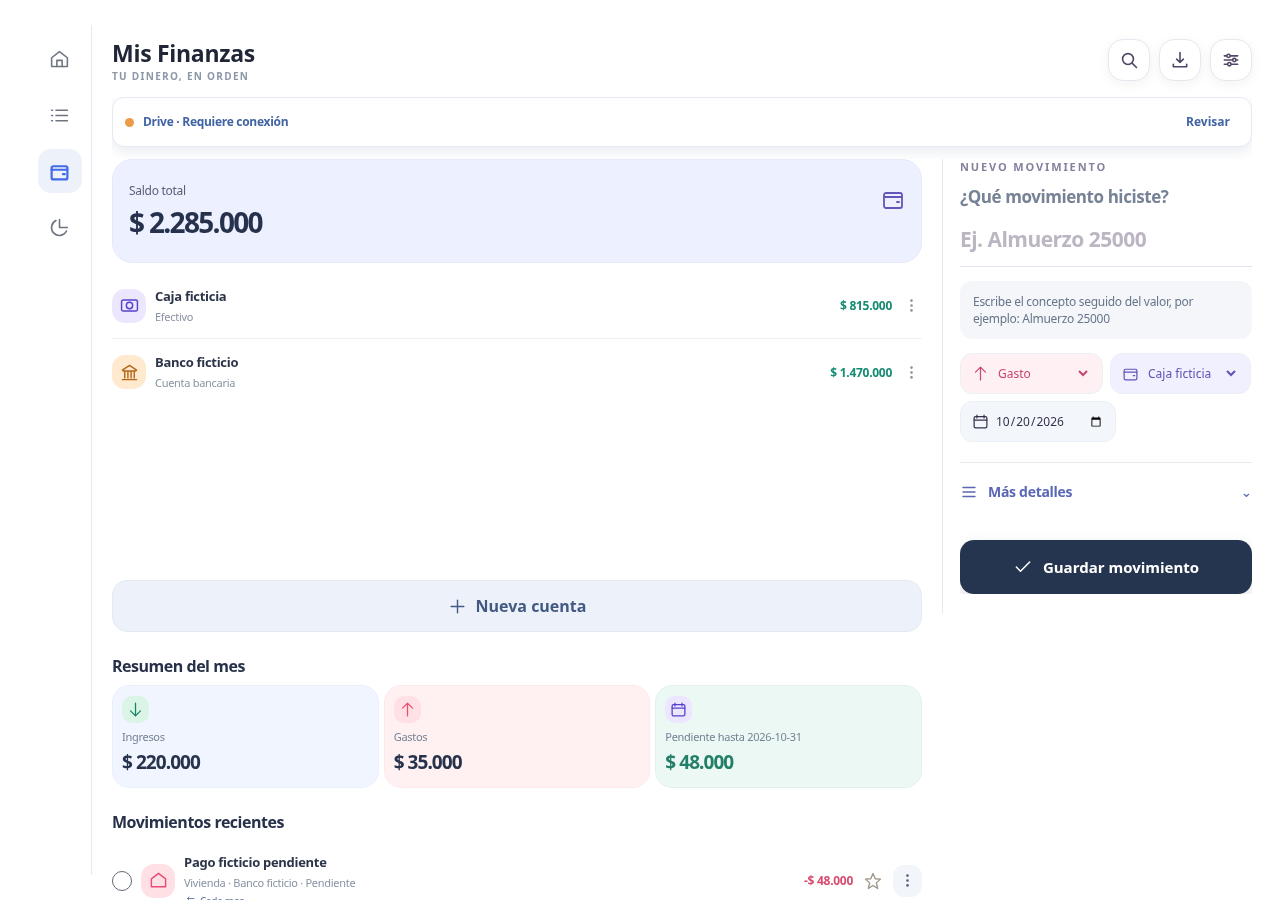
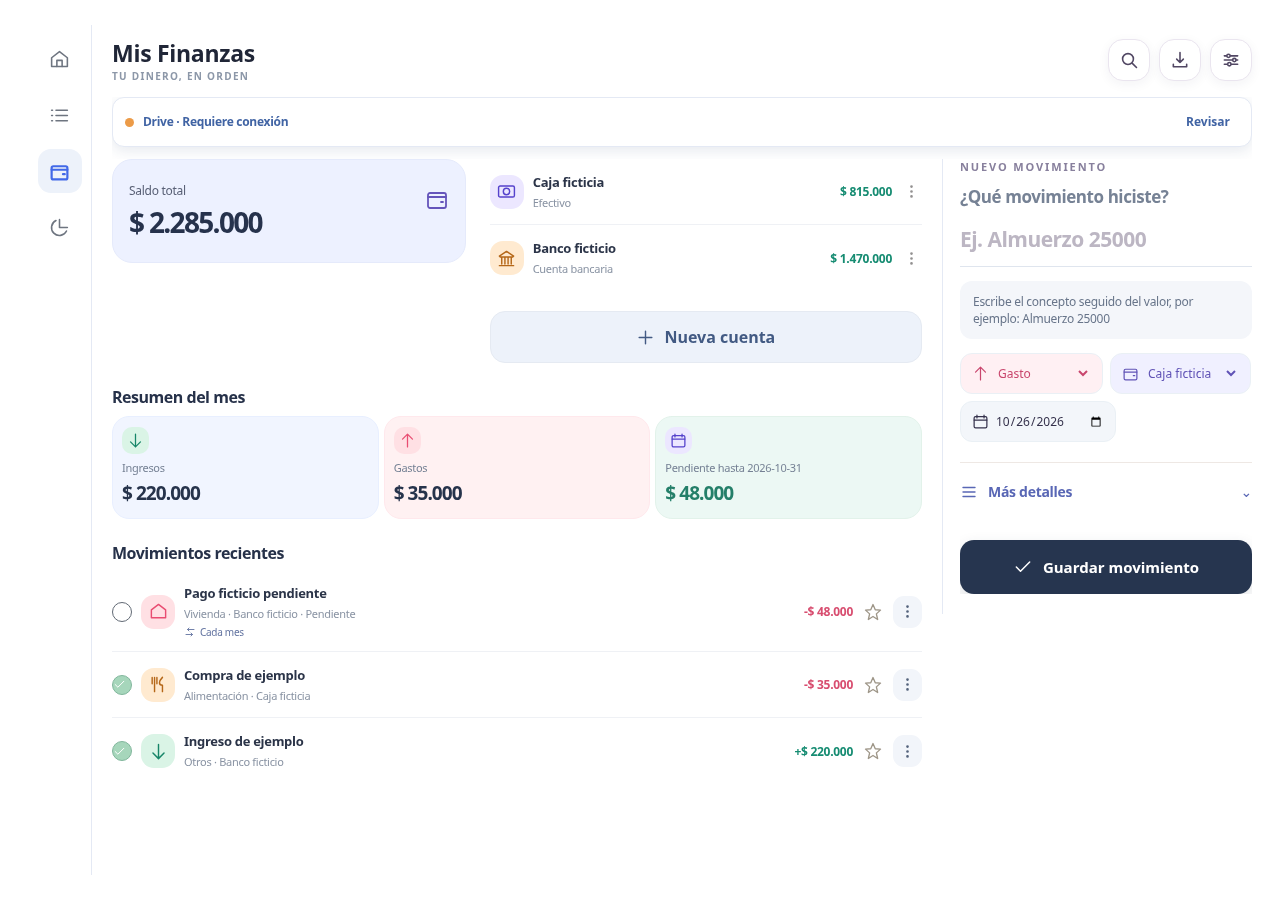
Ajustar Listas y Cuentas al ancho de escritorio

diff --git a/index.html b/index.html
@@ -192,6 +192,19 @@ body{background:#f5f7fb;letter-spacing:-.018em}
  #modal[data-inline-quick=true] .quick-entry{font-size:21px}
  #modal[data-inline-quick=true] .quick-head{margin-bottom:11px}
  #driveToast{left:calc(50% - 165px)}
+ #main:has(> .heading-row) > .flat-list,#main:has(> .total-account) > .flat-list{padding-bottom:0}
+}
+@media(min-width:1280px){
+ #main:has(> .heading-row){display:grid;grid-template-columns:repeat(2,minmax(0,1fr));column-gap:24px;align-content:start}
+ #main:has(> .heading-row) > .heading-row{grid-column:1;grid-row:1}
+ #main:has(> .heading-row) > .heading-row + .flat-list{grid-column:1;grid-row:2;min-width:0}
+ #main:has(> .heading-row) > .section{grid-column:2;grid-row:1;margin:12px 0 8px;align-self:center}
+ #main:has(> .heading-row) > .section + .flat-list{grid-column:2;grid-row:2;min-width:0}
+ #main:has(> .total-account){display:grid;grid-template-columns:minmax(0,.9fr) minmax(0,1.1fr);column-gap:24px;align-content:start}
+ #main:has(> .total-account) > .total-account{grid-column:1;grid-row:1;align-self:start}
+ #main:has(> .total-account) > .total-account + .flat-list{grid-column:2;grid-row:1;min-width:0}
+ #main:has(> .total-account) > .new-account{grid-column:2;grid-row:2}
+ #main:has(> .total-account) > .section,#main:has(> .total-account) > .grid,#main:has(> .total-account) > .flat-list:last-child{grid-column:1/-1}
 }
 </style></head><body><div class="app"><header class="top"><div><div class="muted mini">TU DINERO, EN ORDEN</div><div class="logo">Mis Finanzas</div></div><div class="top-actions"><button class="iconbtn" id="searchToggle" aria-label="Buscar"><svg viewBox="0 0 24 24" width="23" height="23" fill="none" stroke="currentColor" stroke-width="1.9" stroke-linecap="round"><circle cx="10.8" cy="10.8" r="6.5"/><path d="m16 16 5 5"/></svg></button><button class="iconbtn" id="backupNow" aria-label="Guardar copia de seguridad" title="Guardar copia de seguridad"><svg viewBox="0 0 24 24" fill="none" stroke="currentColor" stroke-width="1.9" stroke-linecap="round" stroke-linejoin="round" aria-hidden="true"><path d="M12 3v12m-4-4 4 4 4-4"/><path d="M4 17v3h16v-3"/></svg></button><button class="iconbtn" id="settings" aria-label="Configuración"><svg viewBox="0 0 24 24" width="23" height="23" fill="none" stroke="currentColor" stroke-width="1.9" stroke-linecap="round" stroke-linejoin="round"><path d="M4 7h16M4 12h16M4 17h16"/><circle cx="9" cy="7" r="2" fill="white"/><circle cx="16" cy="12" r="2" fill="white"/><circle cx="10" cy="17" r="2" fill="white"/></svg></button></div></header><main id="main"></main></div><button class="float" id="add" aria-label="Nuevo movimiento">+</button><nav class="bottom" id="nav"></nav><div id="modal"></div><script>
 'use strict';const KEY='mis-finanzas-offline-v1';const uuid=()=>crypto.randomUUID?.()||String(Date.now()+Math.random());const today=()=>new Date().toLocaleDateString('en-CA');const money=n=>new Intl.NumberFormat('es-CO',{style:'currency',currency:'COP',maximumFractionDigits:0}).format(Number(n)||0);const esc=s=>String(s??'').replace(/[&<>"']/g,c=>({'&':'&amp;','<':'&lt;','>':'&gt;','"':'&quot;',"'":'&#39;'}[c]));const initial=()=>({version:1,device:uuid(),revision:0,updatedAt:new Date().toISOString(),accounts:[{id:'cash',name:'Efectivo',type:'cash',opening:0},{id:'bank',name:'Banco',type:'bank',opening:0}],lists:[{id:'home',name:'Hogar'},{id:'personal',name:'Personales'},{id:'work',name:'Trabajo'}],categories:['Alimentación','Transporte','Vivienda','Servicios','Salud','Educación','Ocio','Compras','Suscripciones','Deudas','Otros'],transactions:[],budgets:[],goals:[],debts:[],settings:{cloudUrl:'',cloudKey:'',syncId:'',syncSecret:'',lastSync:''}});let db;try{db=JSON.parse(localStorage.getItem(KEY))||initial()}catch{db=initial()}db={...initial(),...db};if(!Array.isArray(db.categories)||!db.categories.length)db.categories=initial().categories;let page='Inicio',filter='Todos',query='',projection='conservative',until=(()=>{let d=new Date();return new Date(d.getFullYear(),d.getMonth()+1,0).toLocaleDateString('en-CA')})(),listFilter='',accountFilter='';const persist=()=>{db.revision++;db.updatedAt=new Date().toISOString();try{localStorage.setItem(KEY,JSON.stringify(db));window.dispatchEvent(new Event('finanzas-local-save'));return true}catch{alert('No se pudo guardar en este navegador. Exporta una copia de seguridad.');return false}};const completed=t=>t.status==='done',effective=t=>t.status==='done'&&!t.deleted;const linkedAmount=(kind,id)=>db.transactions.filter(t=>!t.deleted&&t.status==='done'&&t.type==='expense'&&t.linkKind===kind&&t.linkId===id).reduce((sum,t)=>sum+Number(t.amount||0),0);const goalSaved=g=>Number(g.saved||0)+linkedAmount('goal',g.id);const debtBalance=d=>Math.max(0,Number(d.balance||0)-linkedAmount('debt',d.id));const accountBalance=id=>{let a=db.accounts.find(a=>a.id===id);if(!a)return 0;return Number(a.opening||0)+db.transactions.filter(t=>effective(t)).reduce((sum,t)=>sum+(t.type==='income'&&t.account===id?+t.amount:0)-(t.type==='expense'&&t.account===id?+t.amount:0)+(t.type==='transfer'&&t.toAccount===id?+t.amount:0)-(t.type==='transfer'&&t.account===id?+t.amount:0),0)};const total=()=>db.accounts.filter(a=>a.type!=='credit').reduce((s,a)=>s+accountBalance(a.id),0);const due=()=>db.transactions.filter(t=>!t.deleted&&t.status==='pending'&&t.type==='expense'&&t.date<=until).reduce((s,t)=>s+Number(t.amount),0);const future=()=>db.transactions.filter(t=>!t.deleted&&t.status==='pending'&&t.type==='income'&&t.date<=until).reduce((s,t)=>s+Number(t.amount),0);const projected=()=>total()-due()+(projection==='expected'?future():0);const icon=t=>({income:'↓',expense:'↑',transfer:'⇄'})[t.type]||'•';const cat=t=>t.category||'Otros';const visible=()=>db.transactions.filter(t=>!t.deleted).filter(t=>filter==='Todos'||filter==='Importantes'&&t.star||filter==='Pendientes'&&t.status==='pending'||filter==='Gastos'&&t.type==='expense'||filter==='Ingresos'&&t.type==='income'||filter==='Transferencias'&&t.type==='transfer').filter(t=>!listFilter||t.list===listFilter).filter(t=>!accountFilter||t.account===accountFilter||t.toAccount===accountFilter).filter(t=>!query||[t.title,t.category,t.notes].join(' ').toLowerCase().includes(query.toLowerCase())).sort((a,b)=>(b.date||'').localeCompare(a.date||'')||b.created.localeCompare(a.created));const movementList=()=>{let arr=visible();return arr.length?arr.map(tRow).join(''):'<div class="empty">No hay movimientos. Pulsa + para empezar.</div>'};const glyphs={home:'<path d="m3 10 9-7 9 7v10H3z"/><path d="M9 20v-7h6v7"/>',list:'<path d="M8 6h13M8 12h13M8 18h13"/><path d="M3 6h1M3 12h1M3 18h1"/>',wallet:'<rect x="3" y="6" width="18" height="15" rx="2"/><path d="M3 10h18M16 15h2"/>',chart:'<path d="M12 3v9h9"/><path d="M20 16a9 9 0 1 1-12-12"/>',search:'<circle cx="11" cy="11" r="7"/><path d="m16 16 5 5"/>',menu:'<path d="M4 6h16M4 12h16M4 18h16"/>',dots:'<circle cx="12" cy="5" r="1"/><circle cx="12" cy="12" r="1"/><circle cx="12" cy="19" r="1"/>',bank:'<path d="m3 9 9-6 9 6M4 10h16M6 10v9m4-9v9m4-9v9m4-9v9M3 21h18"/>',cash:'<rect x="2" y="5" width="20" height="14" rx="2"/><circle cx="12" cy="12" r="4"/>',credit:'<rect x="2" y="5" width="20" height="14" rx="2"/><path d="M2 10h20"/>',cart:'<circle cx="9" cy="20" r="1"/><circle cx="19" cy="20" r="1"/><path d="M2 3h2l3 13h12l3-9H5"/>',food:'<path d="M4 3v8m3-8v8m3-8v8M7 11v10M17 3c-5 5-5 10 0 10v8"/>',car:'<path d="M5 17H3v-6l3-6h12l3 6v6h-2M5 17h14M6 11h12"/><circle cx="7" cy="17" r="2"/><circle cx="17" cy="17" r="2"/>',calendar:'<rect x="3" y="5" width="18" height="16" rx="2"/><path d="M7 3v4M17 3v4M3 10h18"/>',repeat:'<path d="M20 7h-13l3-3M7 7l3 3M4 17h13l-3-3m3 3-3 3"/>',star:'<path d="m12 2 3 7 7 .5-5.5 5 1.7 7.5L12 18l-6.2 4 1.7-7.5L2 9.5 9 9z"/>',target:'<circle cx="12" cy="12" r="9"/><circle cx="12" cy="12" r="5"/><circle cx="12" cy="12" r="1"/>',arrowup:'<path d="M12 21V3m-7 7 7-7 7 7"/>',arrowdown:'<path d="M12 3v18m-7-7 7 7 7-7"/>',transfer:'<path d="M3 7h18l-4-4m4 4-4 4M21 17H3l4-4m-4 4 4 4"/>',clock:'<circle cx="12" cy="12" r="9"/><path d="M12 7v5l4 3"/>',briefcase:'<rect x="3" y="7" width="18" height="14" rx="2"/><path d="M9 7V4h6v3M3 12h18"/>',heart:'<path d="M20 8c0 5-8 11-8 11S4 13 4 8a4 4 0 0 1 8-1 4 4 0 0 1 8 1z"/>',house:'<path d="m3 10 9-7 9 7v10H3z"/>',check:'<path d="m4 12 5 5L20 6"/>',edit:'<path d="M12 20h9"/><path d="M16.5 3.5a2.12 2.12 0 0 1 3 3L9 17l-4 1 1-4Z"/>',trash:'<path d="M3 6h18M8 6V4h8v2M5 6l1 15h12l1-15M10 10v7m4-7v7"/>',edit:'<path d="M12 20h9"/><path d="M16.5 3.5a2.12 2.12 0 0 1 3 3L9 17l-4 1 1-4z"/>',copy:'<rect x="8" y="8" width="12" height="12" rx="2"/><path d="M16 8V5a2 2 0 0 0-2-2H5a2 2 0 0 0-2 2v9a2 2 0 0 0 2 2h3"/>',trash:'<path d="M3 6h18M8 6V4h8v2M6 6l1 15h10l1-15M10 10v7M14 10v7"/>' ,plus:'<path d="M12 4v16M4 12h16"/>',pet:'<path d="M12 20c-3 0-7-2-7-5 0-2 2-3 4-3l3-2 3 2c2 0 4 1 4 3 0 3-4 5-7 5Z"/><ellipse cx="5" cy="8" rx="2" ry="3"/><ellipse cx="10" cy="5" rx="2" ry="3"/><ellipse cx="16" cy="5" rx="2" ry="3"/><ellipse cx="21" cy="8" rx="2" ry="3"/>',gift:'<rect x="3" y="9" width="18" height="12" rx="2"/><path d="M12 9v12M2 9h20M12 9C3 9 5 2 9 4c2 1 3 5 3 5Zm0 0c9 0 7-7 3-5-2 1-3 5-3 5Z"/>',coffee:'<path d="M4 8h14v7a6 6 0 0 1-12 0V8m12 1h2a3 3 0 0 1 0 6h-2M3 22h17M8 2v3m5-3v3"/>',book:'<path d="M12 6c-3-2-6-2-10-1v15c4-1 7-1 10 1 3-2 6-2 10-1V5c-4-1-7-1-10 1Zm0 0v15"/>',plane:'<path d="m21 3-8 18-3-8-8-3 19-7ZM10 13l5-5"/>',phone:'<rect x="7" y="2" width="10" height="20" rx="2"/><path d="M11 18h2"/>',lightning:'<path d="m13 2-9 12h7l-1 8 10-13h-7V2Z"/>',droplet:'<path d="M12 2S5 11 5 15a7 7 0 0 0 14 0c0-4-7-13-7-13Z"/>',wifi:'<path d="M2 9a16 16 0 0 1 20 0M5 13a11 11 0 0 1 14 0M9 17a5 5 0 0 1 6 0"/><circle cx="12" cy="21" r="1"/>',shirt:'<path d="m8 3 4 2 4-2 5 4-3 5-2-1v10H8V11l-2 1-3-5 5-4Z"/>',music:'<path d="M9 18V5l12-2v13M9 8l12-2"/><circle cx="6" cy="18" r="3"/><circle cx="18" cy="16" r="3"/>',game:'<path d="M7 8h10c3 0 4 3 5 8s-3 5-6 2l-2-2h-4l-2 2c-3 3-7 2-6-2S4 8 7 8Z"/><path d="M7 11v5m-2-2h5m6-1h.01M19 15h.01"/>',camera:'<rect x="2" y="6" width="20" height="15" rx="2"/><path d="M8 6l2-3h4l2 3"/><circle cx="12" cy="13" r="4"/>',flower:'<circle cx="12" cy="12" r="2"/><path d="M12 10C5 4 11 0 14 4c1 2 0 4-2 6Zm2 2c6-7 10-1 6 2-2 1-4 0-6-2Zm-2 2c7 6 1 10-2 6-1-2 0-4 2-6Zm-2-2c-6 7-10 1-6-2 2-1 4 0 6 2Z"/>',sun:'<circle cx="12" cy="12" r="4"/><path d="M12 2v2m0 16v2M2 12h2m16 0h2M5 5l2 2m10 10 2 2M19 5l-2 2M7 17l-2 2"/>',pill:'<path d="M8 3a6 6 0 0 1 8 0l5 5a6 6 0 0 1 0 8l-5 5a6 6 0 0 1-8 0l-5-5a6 6 0 0 1 0-8l5-5ZM6 6l12 12"/>',building:'<rect x="4" y="2" width="16" height="20" rx="2"/><path d="M8 6h2m4 0h2M8 10h2m4 0h2M8 14h2m4 0h2M10 22v-4h4v4"/>',bus:'<rect x="4" y="3" width="16" height="16" rx="3"/><path d="M4 12h16M8 19v3m8-3v3M8 8h3m2 0h3"/><circle cx="8" cy="16" r="1"/><circle cx="16" cy="16" r="1"/>',piggy:'<path d="M6 10C3 9 2 10 2 12s2 3 4 3c1 3 4 5 8 5h4l2 2v-5c2-2 3-5 1-8l-3 1c-2-3-7-4-11-2L5 5v5Z"/><circle cx="17" cy="12" r="1"/><path d="M10 9h4"/>',percent:'<circle cx="7" cy="7" r="3"/><circle cx="17" cy="17" r="3"/><path d="M4 20 20 4"/>',coins:'<ellipse cx="9" cy="6" rx="6" ry="3"/><path d="M3 6v5c0 2 3 3 6 3s6-1 6-3V6M3 11v5c0 2 3 3 6 3h2M16 13c3 0 6 1 6 3s-3 3-6 3-6-1-6-3 3-3 6-3Zm-6 3v4c0 2 3 3 6 3s6-1 6-3v-4"/>',key:'<circle cx="8" cy="8" r="5"/><path d="m12 12 9 9m-4-4 3-3m-5 1 3-3"/>',paint:'<path d="M12 2a10 10 0 0 0 0 20h2c3 0 4-4 1-5-2-1-1-4 2-4h3c4-6-2-11-8-11Z"/><circle cx="7" cy="10" r="1"/><circle cx="10" cy="6" r="1"/><circle cx="16" cy="7" r="1"/>',dumbbell:'<path d="M3 9v6m3-9v12m3-8 6 4m0-4-6 4m9-8v12m3-9v6"/>',leaf:'<path d="M21 3C8 3 3 9 3 15a6 6 0 0 0 6 6c6 0 12-5 12-18ZM3 21c4-7 8-10 14-13"/>',graduation:'<path d="m2 9 10-5 10 5-10 5L2 9Zm4 3v5c4 4 8 4 12 0v-5M22 9v8"/>',umbrella:'<path d="M2 12a10 10 0 0 1 20 0H2Zm10 0v7a3 3 0 0 0 6 0"/>',cake:'<path d="M4 12h16v10H4V12Zm-2 0h20M8 12V7m4 5V7m4 5V7M8 4v1m4-1v1m4-1v1"/>',scissors:'<circle cx="6" cy="18" r="3"/><circle cx="6" cy="6" r="3"/><path d="m8 8 13 13M8 16 21 3"/>',computer:'<rect x="3" y="3" width="18" height="14" rx="2"/><path d="M8 21h8m-4-4v4"/>',clipboard:'<rect x="5" y="4" width="14" height="18" rx="2"/><path d="M9 4V2h6v2M9 10h6m-6 4h6m-6 4h4"/>'};glyphs.chevronDown='<path d="m6 9 6 6 6-6"/>';const ico=(k,size=20)=>`<svg class="ui-icon" width="${size}" height="${size}" viewBox="0 0 24 24" fill="none" stroke="currentColor" stroke-width="1.8" stroke-linecap="round" stroke-linejoin="round" aria-hidden="true">${glyphs[k]||glyphs.wallet}</svg>`;const catIcon=c=>(db.categoryIcons&&db.categoryIcons[c]&&glyphs[db.categoryIcons[c]]?db.categoryIcons[c]:/Aliment|Comida|Restaurante/i.test(c)?'food':/Transporte|Gasolina/i.test(c)?'car':/Vivienda|Hogar/i.test(c)?'house':/Servicio|Internet/i.test(c)?'wallet':/Salud/i.test(c)?'heart':/Trabajo/i.test(c)?'briefcase':/Compra/i.test(c)?'cart':'wallet');const badge=(k,tone='peach')=>`<span class="icon-badge ${tone}">${ico(k,19)}</span>`;const toneFor=(i)=>['lavender','peach','mint','rose','blue','gold'][i%6];const amountFor=(arr)=>arr.reduce((s,t)=>s+(t.type==='income'?1:t.type==='expense'?-1:0)*Number(t.amount||0),0);const repeatCaption=r=>{if(!r)return "";const m=/^(days|weeks|months|years):(\d+)$/.exec(r);if(m){const n=Number(m[2]);const singular={days:"día",weeks:"semana",months:"mes",years:"año"},plural={days:"días",weeks:"semanas",months:"meses",years:"años"};return `Cada ${n} ${n===1?singular[m[1]]:plural[m[1]]}`}return ({daily:"Cada día",weekly:"Cada semana",monthly:"Cada mes",yearly:"Cada año"})[r]||"Recurrente"};const tRow=t=>{let a=db.accounts.find(a=>a.id===t.account),ci=catIcon(t.category);return `<div class="item transaction" data-swipe-right="✓ Realizado" data-swipe-left="Editar" data-id="${esc(t.id)}"><button class="circle ${completed(t)?'done':''}" data-action="toggle" data-id="${esc(t.id)}" aria-label="${completed(t)?'Marcar pendiente':'Marcar realizado'}">${completed(t)?ico('check',13):''}</button>${badge(t.type==='transfer'?'transfer':t.type==='income'?'arrowdown':ci,t.type==='income'?'mint':t.type==='transfer'?'lavender':t.status==='pending'?'rose':'peach')}<div class="detail"><strong>${esc(t.title)}</strong><small>${esc(cat(t))} · ${esc(a?.name||'Sin cuenta')}${t.status==='pending'?' · Pendiente':''}</small>${t.repeat?`<small class="repeat-tag">${ico('repeat',12)} ${esc(repeatCaption(t.repeat))}</small>`:''}${t.linkKind&&t.linkId?`<small class="repeat-tag">${ico('target',12)} ${esc((t.linkKind==='debt'?db.debts:db.goals).find(x=>x.id===t.linkId)?.name||'Vínculo anterior')}</small>`:''}</div><div class="amount ${t.type}">${t.type==='income'?'+':t.type==='expense'?'-':''}${money(t.amount)}</div><button class="iconbtn star ${t.star?'on':''}" data-action="star" data-id="${esc(t.id)}" aria-label="Destacar">${ico('star',18)}</button><button class="iconbtn rowmore" data-action="actions" data-id="${esc(t.id)}" aria-label="Más acciones">${ico('dots',17)}</button></div>`};const filters=()=>`<div class="tabs">${['Todos','Gastos','Ingresos','Pendientes','Transferencias','Importantes'].map(x=>`<button class="chip ${filter===x?'active':''}" data-filter="${x}">${x}</button>`).join('')}</div>`;const summary=()=>`<div class="grid summary-grid"><div class="metric">${badge('wallet','blue')}<small>Saldo real</small><b>${money(total())}</b></div><div class="metric">${badge('clock','rose')}<small>Pendiente hasta ${esc(until)}</small><b>${money(due())}</b></div><div class="metric">${badge('wallet','mint')}<small>Saldo proyectado</small><b>${money(projected())}</b></div></div><details class="projection-details"><summary>Configurar proyección ${ico('calendar',15)}</summary><div class="row"><label class="field">Tipo<select id="proj"><option value="conservative" ${projection==='conservative'?'selected':''}>Conservadora</option><option value="expected" ${projection==='expected'?'selected':''}>Con ingresos esperados</option></select></label><label class="field">Hasta<input id="until" type="date" value="${esc(until)}"></label></div></details>`;const collapsedDates=new Set();const groupTransactions=()=>{let arr=visible();if(!arr.length)return '<div class="empty">Aún no hay movimientos.<br>Pulsa + para registrar el primero.</div>';let groups={};arr.forEach(t=>{let k=t.date===today()?'Hoy':t.date===new Date(Date.now()-86400000).toLocaleDateString('en-CA')?'Ayer':t.date; (groups[k]??=[]).push(t)});return Object.entries(groups).map(([k,ts])=>`<section class="date-group"><button type="button" class="day-title date-toggle" data-action="toggleDate" data-date="${esc(k)}" aria-expanded="${!collapsedDates.has(k)}">${esc(k)} <span>· ${ts.length} movimientos</span><span class="date-chevron">${ico("chevronDown",19)}</span></button><div class="date-group-body" ${collapsedDates.has(k)?"hidden":""}>${ts.map(tRow).join('')}</div></section>`).join('')};const render=()=>{document.getElementById('nav').innerHTML=['Inicio','Listas','Cuentas','Análisis'].map((p,i)=>`<button class="nav ${p===page?'active':''}" data-page="${p}">${ico(['home','list','wallet','chart'][i],21)}<span>${p}</span></button>`).join('');document.querySelector('.logo').textContent=page==='Inicio'?'Mis finanzas':page;document.getElementById('add').innerHTML=ico('plus',31);document.getElementById('add').setAttribute('data-page-tone',page);let html='';if(page==='Inicio'){html=`${filters()}${summary()}<details class="filters-panel"><summary>${ico('search',16)} Buscar y filtrar movimientos</summary><input class="search" id="search" placeholder="Buscar movimientos..." value="${esc(query)}"><div class="row"><label class="field">Lista<select id="listFilter"><option value="">Todas</option>${db.lists.map(x=>`<option value="${esc(x.id)}" ${listFilter===x.id?'selected':''}>${esc(x.name)}</option>`).join('')}</select></label><label class="field">Cuenta<select id="accountFilter"><option value="">Todas</option>${db.accounts.map(x=>`<option value="${esc(x.id)}" ${accountFilter===x.id?'selected':''}>${esc(x.name)}</option>`).join('')}</select></label></div></details><div class="movements">${groupTransactions()}</div>`}else if(page==='Listas'){html=`<div class="between heading-row"><h2>Mis listas</h2><button class="round-add" data-action="newList" aria-label="Nueva lista">${ico('plus')}</button></div><div class="flat-list"><div class="item">${badge('list','lavender')}<div class="detail"><strong>Todas</strong><small>${db.transactions.filter(t=>!t.deleted).length} movimientos</small></div><b class="income">${money(total())}</b></div>${db.lists.map((l,i)=>{let tx=db.transactions.filter(t=>!t.deleted&&t.list===l.id);let n=amountFor(tx);return `<div class="item">${badge(['house','briefcase','cart','target','heart'][i%5],toneFor(i+1))}<div class="detail"><strong>${esc(l.name)}</strong><small>${tx.length} movimientos</small></div><b class="amount ${n>=0?'income':'expense'}">${n<0?'-':''}${money(Math.abs(n))}</b><button class="iconbtn" data-action="openList" data-id="${l.id}" aria-label="Abrir lista">${ico('search',16)}</button><button class="iconbtn" data-action="deleteList" data-id="${l.id}">${ico('dots',16)}</button></div>`}).join('')}<div class="item">${badge('calendar','rose')}<div class="detail"><strong>Pendientes</strong><small>${db.transactions.filter(t=>!t.deleted&&t.status==='pending').length} pagos</small></div><b class="expense">${money(due())}</b><button class="iconbtn" data-action="smart" data-id="pending">${ico('dots',16)}</button></div></div><h3 class="section">Listas inteligentes</h3><div class="flat-list">${[['Gastos fijos','repeat','repeat'],['Recurrentes','repeat','repeat'],['Metas de ahorro','target','goals'],['Deudas','credit','debts'],['Destacados','star','star']].map(([name,ic,k],i)=>`<div class="item">${badge(ic,toneFor(i+3))}<div class="detail"><strong>${name}</strong><small>${k==='goals'?db.goals.length+' metas':k==='debts'?db.debts.length+' deudas':db.transactions.filter(t=>!t.deleted&&(k==='repeat'?t.repeat:t.star)).length+' movimientos'}</small></div><button class="iconbtn" data-action="smart" data-id="${k==='goals'||k==='debts'?'pending':k}">${ico('dots',17)}</button></div>`).join('')}</div>`}else if(page==='Cuentas'){html=`<div class="total-account"><small>Saldo total</small><h1>${money(total())}</h1>${ico('wallet',24)}</div><div class="flat-list">${db.accounts.map((a,i)=>`<div class="item account">${badge(a.type==='credit'?'credit':a.type==='cash'?'cash':'bank',toneFor(i))}<div class="detail"><strong>${esc(a.name)}</strong><small>${a.type==='credit'?'Tarjeta de crédito':a.type==='cash'?'Efectivo':'Cuenta bancaria'}</small></div><b class="amount ${accountBalance(a.id)<0?'expense':'income'}">${money(accountBalance(a.id))}</b><button class="iconbtn" data-action="editAccount" data-id="${a.id}">${ico('dots',17)}</button></div>`).join('')}</div><button class="new-account" data-action="newAccount">${ico('plus',19)} Nueva cuenta</button><h3 class="section">Resumen del mes</h3><div class="grid">${(()=>{let tx=db.transactions.filter(t=>effective(t)&&t.date.slice(0,7)===today().slice(0,7));return `<div class="metric">${badge('arrowdown','mint')}<small>Ingresos</small><b>${money(tx.filter(t=>t.type==='income').reduce((s,t)=>s+ +t.amount,0))}</b></div><div class="metric">${badge('arrowup','rose')}<small>Gastos</small><b>${money(tx.filter(t=>t.type==='expense').reduce((s,t)=>s+ +t.amount,0))}</b></div><div class="metric">${badge('calendar','lavender')}<small>Pendiente hasta ${esc(until)}</small><b>${money(due())}</b></div>`})()}</div><h3 class="section">Movimientos recientes</h3><div class="flat-list">${db.transactions.filter(t=>!t.deleted).slice(-5).reverse().map(tRow).join('')||'<div class="empty">Sin movimientos</div>'}</div>`}else{let expenses=db.transactions.filter(t=>effective(t)&&t.type==='expense'&&t.date.slice(0,7)===today().slice(0,7)),incomes=db.transactions.filter(t=>effective(t)&&t.type==='income'&&t.date.slice(0,7)===today().slice(0,7));let cats={};expenses.forEach(t=>cats[cat(t)]=(cats[cat(t)]||0)+Number(t.amount));let catArr=Object.entries(cats).sort((a,b)=>b[1]-a[1]);let sum=expenses.reduce((s,t)=>s+Number(t.amount),0);let palette=['#f27f9a','#81c7a5','#83b9fa','#a98aed','#ffc46c','#c7a9ef'];let pos=0;let stops=catArr.map(([k,v],i)=>{let start=pos;pos+=v/Math.max(sum,1)*100;return `${palette[i%palette.length]} ${start}% ${pos}%`}).join(',');html=`<div class="analysis-actions"><button class="chip active">Resumen</button><button class="chip" data-filter="Gastos" data-page="Inicio">Ver gastos</button><button class="chip" data-filter="Ingresos" data-page="Inicio">Ver ingresos</button><button class="chip" data-action="newBudget">Presupuestos</button></div><div class="grid"><div class="metric">${badge('arrowdown','mint')}<small>Ingresos</small><b>${money(incomes.reduce((s,t)=>s+Number(t.amount),0))}</b></div><div class="metric">${badge('arrowup','rose')}<small>Gastos</small><b>${money(sum)}</b></div><div class="metric">${badge('calendar','blue')}<small>Saldo real</small><b>${money(total())}</b></div></div><div class="forecast-strip"><div><small>Gastos realizados del mes</small><strong>${money(sum)}</strong></div><div><small>Gastos pendientes del mes</small><strong>${money(db.transactions.filter(t=>!t.deleted&&t.type==='expense'&&t.status==='pending'&&t.date.slice(0,7)===today().slice(0,7)).reduce((s,t)=>s+Number(t.amount||0),0))}</strong></div><div><small>Total previsto del mes</small><strong>${money(sum+db.transactions.filter(t=>!t.deleted&&t.type==='expense'&&t.status==='pending'&&t.date.slice(0,7)===today().slice(0,7)).reduce((s,t)=>s+Number(t.amount||0),0))}</strong></div></div><h3 class="section">Gastos por categoría</h3><div class="chart-section"><div class="donut" style="background:conic-gradient(${stops||'#eee9e3 0% 100%'})"><div class="donut-hole">${money(sum)}</div></div><div class="legend">${catArr.map(([c,v],i)=>`<div><i style="background:${palette[i%palette.length]}"></i><span>${esc(c)}</span><b>${Math.round(v/Math.max(sum,1)*100)}%</b></div>`).join('')||'<small>Sin gastos este mes</small>'}</div></div><div class="between section-heading"><h3 class="section">Presupuesto mensual</h3><button class="text-action" data-action="newBudget">+ Añadir</button></div>${db.budgets.map((b,i)=>{let spent=expenses.filter(t=>cat(t)===b.category).reduce((s,t)=>s+Number(t.amount),0);return `<div class="budget-row">${badge(catIcon(b.category),toneFor(i))}<div class="budget-body"><div class="between"><strong>${esc(b.category)}</strong><small>${money(spent)} / ${money(b.amount)}</small></div><div class="progress"><i style="width:${Math.min(100,spent/b.amount*100)}%;background:${spent>b.amount?'#e86c84':palette[i%palette.length]}"></i></div></div><button class="iconbtn" data-action="editBudget" data-id="${b.id}" aria-label="Editar presupuesto">${ico('edit',17)}</button><button class="iconbtn" data-action="deleteBudget" data-id="${b.id}" aria-label="Eliminar presupuesto">${ico('trash',16)}</button></div>`}).join('')||'<div class="empty">Crea tu primer presupuesto</div>'}<div class="between section-heading"><h3 class="section">Metas de ahorro</h3><button class="text-action" data-action="newGoal">+ Añadir</button></div>${db.goals.map((g,i)=>`<div class="budget-row">${badge('target',toneFor(i))}<div class="budget-body"><div class="between"><strong>${esc(g.name)}</strong><small>${money(goalSaved(g))} / ${money(g.target)}</small></div><div class="progress"><i style="width:${Math.min(100,goalSaved(g)/g.target*100)}%"></i></div></div><button class="iconbtn" data-action="addGoal" data-id="${g.id}" aria-label="Abonar a meta">${ico('plus',17)}</button><button class="iconbtn" data-action="deleteGoal" data-id="${g.id}">×</button></div>`).join('')||'<div class="empty">Todavía no tienes metas</div>'}<div class="between section-heading"><h3 class="section">Deudas</h3><button class="text-action" data-action="newDebt">+ Añadir</button></div>${db.debts.map(d=>`<div class="item">${badge('credit','rose')}<div class="detail"><strong>${esc(d.name)}</strong><small>Saldo ${money(debtBalance(d))}</small></div><button class="secondary" data-action="payDebt" data-id="${d.id}">Abonar</button><button class="iconbtn" data-action="editDebt" data-id="${d.id}" aria-label="Editar deuda">${ico('edit',18)}</button><button class="iconbtn" data-action="deleteDebt" data-id="${d.id}">×</button></div>`).join('')||'<div class="empty">Sin deudas registradas</div>'}`};document.getElementById('main').innerHTML=html};const open=html=>{const modal=document.getElementById('modal');if(!desktopQuickOpening&&modal.dataset.inlineQuick==='true'){parkedQuick=modal.firstElementChild;parkedQuick.remove()}modal.dataset.inlineQuick=desktopQuickOpening?'true':'false';modal.innerHTML=`<div class="overlay" id="overlay"><div class="sheet">${html}</div></div>`};const close=()=>{const modal=document.getElementById('modal');modal.innerHTML='';if(desktopLayout.matches&&parkedQuick){modal.dataset.inlineQuick='true';refreshParkedQuick();modal.append(parkedQuick);parkedQuick=null}else{parkedQuick=null;modal.dataset.inlineQuick='false';mountDesktopQuick()}};const field=(label,name,value='',type='text')=>`<label class="field">${label}<input name="${name}" type="${type}" value="${esc(value)}" ${type==='number'?'min="0" step="any"':''}></label>`;const select=(label,name,items,val='')=>`<label class="field">${label}<select name="${name}">${items.map(([id,name])=>`<option value="${esc(id)}" ${val===id?'selected':''}>${esc(name)}</option>`).join('')}</select></label>`;const form=(title,content,action='save')=>open(`<div class="between"><h2>${title}</h2><button class="iconbtn" data-action="close">✕</button></div><form id="form" data-form="${action}">${content}<div class="row" style="margin-top:22px"><button class="secondary" type="button" data-action="close">Cancelar</button><button class="primary" type="submit">Guardar</button></div></form>`);const accountOptions=()=>db.accounts.map(a=>[a.id,a.name]);const transactionForm=(id)=>{let t=db.transactions.find(x=>x.id===id)||{type:'expense',title:'',amount:'',category:'Alimentación',date:today(),account:db.accounts[0]?.id,toAccount:db.accounts[1]?.id,list:'',status:'done',repeat:'',notes:'',star:false};let quick=t.title+(t.amount?' '+t.amount:'');if(!id&&t.date>today())t.status='pending';open(`<div class="quick-head"><span class="quick-kicker">${id?'EDITAR':'NUEVO'} MOVIMIENTO</span><button class="quick-close" data-action="close" aria-label="Cerrar">×</button></div><form id="form" data-form="transaction"><input type="hidden" name="id" value="${esc(id||'')}"><input type="hidden" name="title" value="${esc(t.title)}"><input type="hidden" name="amount" value="${esc(t.amount)}"><label class="quick-prompt" for="quickEntry">¿Qué movimiento hiciste?</label><input id="quickEntry" class="quick-entry" type="text" inputmode="text" autocomplete="off" placeholder="Ej. Almuerzo 25000" value="${esc(quick)}" required><div class="quick-detected" id="quickDetected">Escribe un concepto y un valor</div><div class="quick-chips"><label class="quick-chip expense-chip" id="movementTypeChip">${ico('arrowup',17)}<select name="type" aria-label="Tipo de movimiento">${[['expense','Gasto'],['income','Ingreso'],['transfer','Transferencia']].map(([v,l])=>`<option value="${v}" ${t.type===v?'selected':''}>${l}</option>`).join('')}</select></label><label class="quick-chip account-chip">${ico('wallet',17)}<select name="account" aria-label="Cuenta">${accountOptions().map(([v,l])=>`<option value="${esc(v)}" ${t.account===v?'selected':''}>${esc(l)}</option>`).join('')}</select></label><label class="quick-chip date-chip">${ico('calendar',17)}<input name="date" type="date" value="${esc(t.date)}" aria-label="Fecha"></label></div><details class="quick-details"><summary>${ico('menu',18)} Más detalles <span>⌄</span></summary><div class="quick-details-body"><div class="quick-line category-quick-row"><span>Categoría</span><div class="category-quick-controls">${select('','category',db.categories.map(x=>[x,x]),t.category)}<button type="button" class="category-icon-btn" data-action="catQuickAdd" title="Nueva categoría" aria-label="Agregar categoría">${ico('plus',19)}</button><button type="button" class="category-icon-btn" data-action="catQuickEdit" title="Renombrar categoría" aria-label="Editar categoría">${ico('edit',18)}</button></div></div><label class="quick-line">Estado ${select('','status',[['done','Realizado'],['pending','Pendiente']],t.status)}</label><div class="destination-field quick-line">Cuenta destino ${select('','toAccount',[['','Ninguna'],...accountOptions()],t.toAccount)}</div><label class="quick-line">Repetir ${select('','repeat',[['','No repetir'],['daily','Diario'],['weekly','Semanal'],['monthly','Mensual'],['yearly','Anual'],['custom','Personalizar…']],t.repeat&&(/^(days|weeks|months|years):\d+$/.test(t.repeat)||t.repeat.startsWith('months:'))?'custom':t.repeat)}</label><div class="custom-repeat-row" style="${/^(days|weeks|months|years):\d+$/.test(t.repeat)?'':'display:none'}"><span>Repetir cada</span><div class="repeat-controls"><input name="repeatEvery" type="number" min="1" max="365" value="${esc((t.repeat||'').split(':')[1]||'2')}" aria-label="Intervalo de repetición"><select name="repeatUnit" aria-label="Unidad de repetición">${[['days','días'],['weeks','semanas'],['months','meses'],['years','años']].map(([u,label])=>`<option value="${u}" ${((t.repeat||'').split(':')[0]||'months')===u?'selected':''}>${label}</option>`).join('')}</select></div></div><div class="quick-line" id="movementLinkRow"><span>Relacionar con</span><label class="field"> <select name="linkTarget" aria-label="Deuda o meta de ahorro"><option value="">Sin relación</option>${db.debts.map(d=>`<option value="debt:${esc(d.id)}" ${t.linkKind==='debt'&&t.linkId===d.id?'selected':''}>Deuda · ${esc(d.name)}</option>`).join('')}${db.goals.map(g=>`<option value="goal:${esc(g.id)}" ${t.linkKind==='goal'&&t.linkId===g.id?'selected':''}>Meta · ${esc(g.name)}</option>`).join('')}</select></label></div><label class="quick-line">Lista ${select('','list',[['','Sin lista'],...db.lists.map(l=>[l.id,l.name])],t.list)}</label><label class="quick-line">Notas <textarea name="notes" rows="2" placeholder="Añadir nota…">${esc(t.notes)}</textarea></label><label class="quick-line">Comprobante <input type="file" name="attachment" accept="image/*"></label></div></details><button class="quick-save" type="button">${ico('check',20)} Guardar movimiento</button></form>`);let q=document.getElementById('quickEntry');const parse=()=>{let raw=q.value.trim(),m=raw.match(/^(.*?)\s+\$?([0-9][0-9.,]*)\s*$/),title=m?m[1].trim():raw,amount=m?Number(m[2].replace(/[.,]/g,'')):0;document.querySelector('#form [name=title]').value=title;document.querySelector('#form [name=amount]').value=amount||'';document.getElementById('quickDetected').textContent=amount>0?'Detectado: '+(document.querySelector('#form [name=type]').selectedOptions[0]?.textContent||'Gasto')+' · '+money(amount)+' · '+document.querySelector('#form [name=category]').value:'Escribe el concepto seguido del valor, por ejemplo: Almuerzo 25000';};q.addEventListener('input',parse);document.querySelector('#form [name=type]').addEventListener('change',()=>{updateMovementTone();parse()});document.querySelector('#form [name=category]').addEventListener('change',parse);const dateInput=document.querySelector('#form [name=date]');dateInput.addEventListener('change',()=>{const status=document.querySelector('#form [name=status]');if(dateInput.value>today())status.value='pending'});updateMovementTone();parse();if(!id&&!desktopQuickOpening)setTimeout(()=>q.focus({preventScroll:true}),80)};const updateMovementTone=()=>{const chip=document.getElementById('movementTypeChip');if(!chip)return;const type=document.querySelector('#form [name=type]')?.value||'expense';chip.classList.remove('tone-income','tone-transfer');if(type==='income')chip.classList.add('tone-income');if(type==='transfer')chip.classList.add('tone-transfer');chip.querySelector('svg')?.remove();chip.insertAdjacentHTML('afterbegin',ico(type==='income'?'arrowdown':type==='transfer'?'transfer':'arrowup',17))};const actionMenu=id=>{let t=db.transactions.find(x=>x.id===id);if(!t)return;open(`<div class="action-menu-head"><span class="action-menu-icon">${badge(t.type==='income'?'arrowdown':t.type==='transfer'?'transfer':'arrowup',t.type==='income'?'mint':'rose')}</span><div class="detail"><small>ACCIONES DEL MOVIMIENTO</small><h2>${esc(t.title)}</h2><p>${money(t.amount)} · ${esc(t.date)}</p></div><button class="action-menu-close" data-action="close" aria-label="Cerrar">×</button></div>${t.notes?`<p class="action-note">${esc(t.notes)}</p>`:''}${t.attachment?`<img alt="Comprobante" style="max-width:100%;max-height:220px;border-radius:14px" src="${t.attachment}">`:''}<div class="action-menu-list">${[['edit',ico('edit',20),'Editar','Modificar los detalles'],['toggle',t.status==='done'?ico('clock',20):ico('check',20),t.status==='done'?'Marcar pendiente':'Marcar realizado','Actualizar el estado'],['duplicate',ico('copy',20),'Duplicar','Crear una copia pendiente'],['postpone',ico('calendar',20),'Posponer un día','Cambiar la fecha'],['delete',ico('trash',20),'Eliminar','Quitar este movimiento']].map(([a,symbol,label,desc])=>`<button class="action-menu-option ${a==='delete'?'action-menu-danger':''}" data-action="${a}" data-id="${esc(id)}"><span class="action-menu-symbol">${symbol}</span><span class="action-menu-text"><strong>${label}</strong><small>${desc}</small></span><span class="action-menu-chevron">›</span></button>`).join('')}</div>`)};const nextDate=(date,repeat)=>{let d=new Date(date+'T12:00:00');const custom=/^(days|weeks|months|years):(\d+)$/.exec(repeat||'');let unit=custom?.[1]||({daily:'days',weekly:'weeks',monthly:'months',yearly:'years'}[repeat]),n=custom?Number(custom[2]):1;if(!unit||!Number.isInteger(n)||n<1)return date;if(unit==='days')d.setDate(d.getDate()+n);else if(unit==='weeks')d.setDate(d.getDate()+7*n);else if(unit==='months'||unit==='years'){let day=d.getDate(),months=n*(unit==='years'?12:1);d.setDate(1);d.setMonth(d.getMonth()+months);d.setDate(Math.min(day,new Date(d.getFullYear(),d.getMonth()+1,0).getDate()))}return d.toLocaleDateString('en-CA')};const nextOccurrenceFor=t=>{if(!t.repeat)return null;let linked=t.generatedNextId&&db.transactions.find(x=>x.id===t.generatedNextId);if(linked)return linked;return db.transactions.find(x=>x.id!==t.id&&(x.recurrenceParentId===t.id||x.generatedFrom===t.id))||null};const createNextOccurrence=t=>{let existing=nextOccurrenceFor(t);if(existing){t.generatedNextId=existing.id;return existing}let next={...t,id:uuid(),date:nextDate(t.date,t.repeat),status:'pending',created:new Date().toISOString(),star:false,recurrenceParentId:t.id,recurrenceRootId:t.recurrenceRootId||t.id,generatedNextId:''};t.generatedNextId=next.id;db.transactions.push(next);return next};const mark=id=>{let t=db.transactions.find(x=>x.id===id);if(!t||t.deleted)return;if(t.status==='pending'){t.status='done';if(t.repeat)createNextOccurrence(t)}else t.status='pending';persist();close();render()};const ask=(message,def='')=>prompt(message,def);const addRecord=(kind)=>{const forms={newList:['Nueva lista',field('Nombre de la lista','name')],newAccount:['Nueva cuenta',field('Nombre de la cuenta','name')+select('Tipo','type',[['bank','Cuenta bancaria'],['cash','Efectivo'],['credit','Tarjeta de crédito']],'bank')+field('Saldo inicial (COP)','opening','0','number')],newBudget:['Nuevo presupuesto',`<div class="budget-category-tools">${select('Categoría','category',db.categories.map(x=>[x,x]),db.categories[0])}<button type="button" class="category-icon-btn" data-action="catQuickAdd" aria-label="Nueva categoría">${ico('plus',19)}</button><button type="button" class="category-icon-btn" data-action="catQuickEdit" aria-label="Editar categoría">${ico('edit',19)}</button></div>`+field('Presupuesto mensual (COP)','amount','','number')],newGoal:['Nueva meta de ahorro',field('Nombre de la meta','name')+field('Objetivo (COP)','target','','number')],newDebt:['Nueva deuda',field('Nombre de la deuda','name')+field('Saldo de la deuda (COP)','balance','','number')]};if(forms[kind])form(forms[kind][0],forms[kind][1],'create-'+kind)};const categoryExists=(name,except='')=>db.categories.some(c=>c.toLocaleLowerCase('es')===name.toLocaleLowerCase('es')&&c!==except);

diff --git a/tests/desktop-layout.test.js b/tests/desktop-layout.test.js
@@ -82,6 +82,39 @@ async function main() {
           return toast.hidden || toast.getBoundingClientRect().right <= panel.left;
         });
         assert.equal(feedback, true, `el aviso de Drive no debe tapar el registro a ${width}px`);
+        for (const section of ['Listas', 'Cuentas']) {
+          await page.locator(`#desktopNav [data-page="${section}"]`).click();
+          const geometry = await page.evaluate(section => {
+            const main = document.querySelector('#main');
+            const lists = [...main.querySelectorAll(':scope > .flat-list')];
+            const first = section === 'Listas' ? lists[0] : main.querySelector('.total-account');
+            const second = section === 'Listas' ? lists[1] : lists[0];
+            const panel = document.querySelector('#modal').getBoundingClientRect();
+            const rect = element => {
+              const box = element.getBoundingClientRect();
+              return { left: box.left, right: box.right, top: box.top, bottom: box.bottom };
+            };
+            const clipped = [...main.querySelectorAll('.flat-list .item')].some(item => {
+              const box = item.getBoundingClientRect();
+              const parent = item.parentElement.getBoundingClientRect();
+              return box.left < parent.left - 1 || box.right > parent.right + 1 || item.scrollWidth > item.clientWidth + 1;
+            });
+            return { first: rect(first), second: rect(second), panelLeft: panel.left,
+              clipped, firstPadding: parseFloat(getComputedStyle(lists[0]).paddingBottom),
+              newAccount: section === 'Cuentas' ? rect(main.querySelector('.new-account')) : null };
+          }, section);
+          assert.equal(geometry.clipped, false, `${section}: tarjeta cortada a ${width}px`);
+          assert.ok(geometry.second.right <= geometry.panelLeft, `${section}: invade el panel a ${width}px`);
+          assert.equal(geometry.firstPadding, 0, `${section}: espacio móvil residual a ${width}px`);
+          if (width >= 1280) {
+            assert.ok(geometry.first.right < geometry.second.left, `${section}: columnas superpuestas a ${width}px`);
+          } else {
+            assert.ok(geometry.first.bottom <= geometry.second.top, `${section}: bloques superpuestos a ${width}px`);
+          }
+          if (section === 'Cuentas') {
+            assert.ok(geometry.second.bottom <= geometry.newAccount.top, `Cuenta nueva superpuesta a ${width}px`);
+          }
+        }
       }
       if (width === 320) {
         await page.locator('#add').click();
